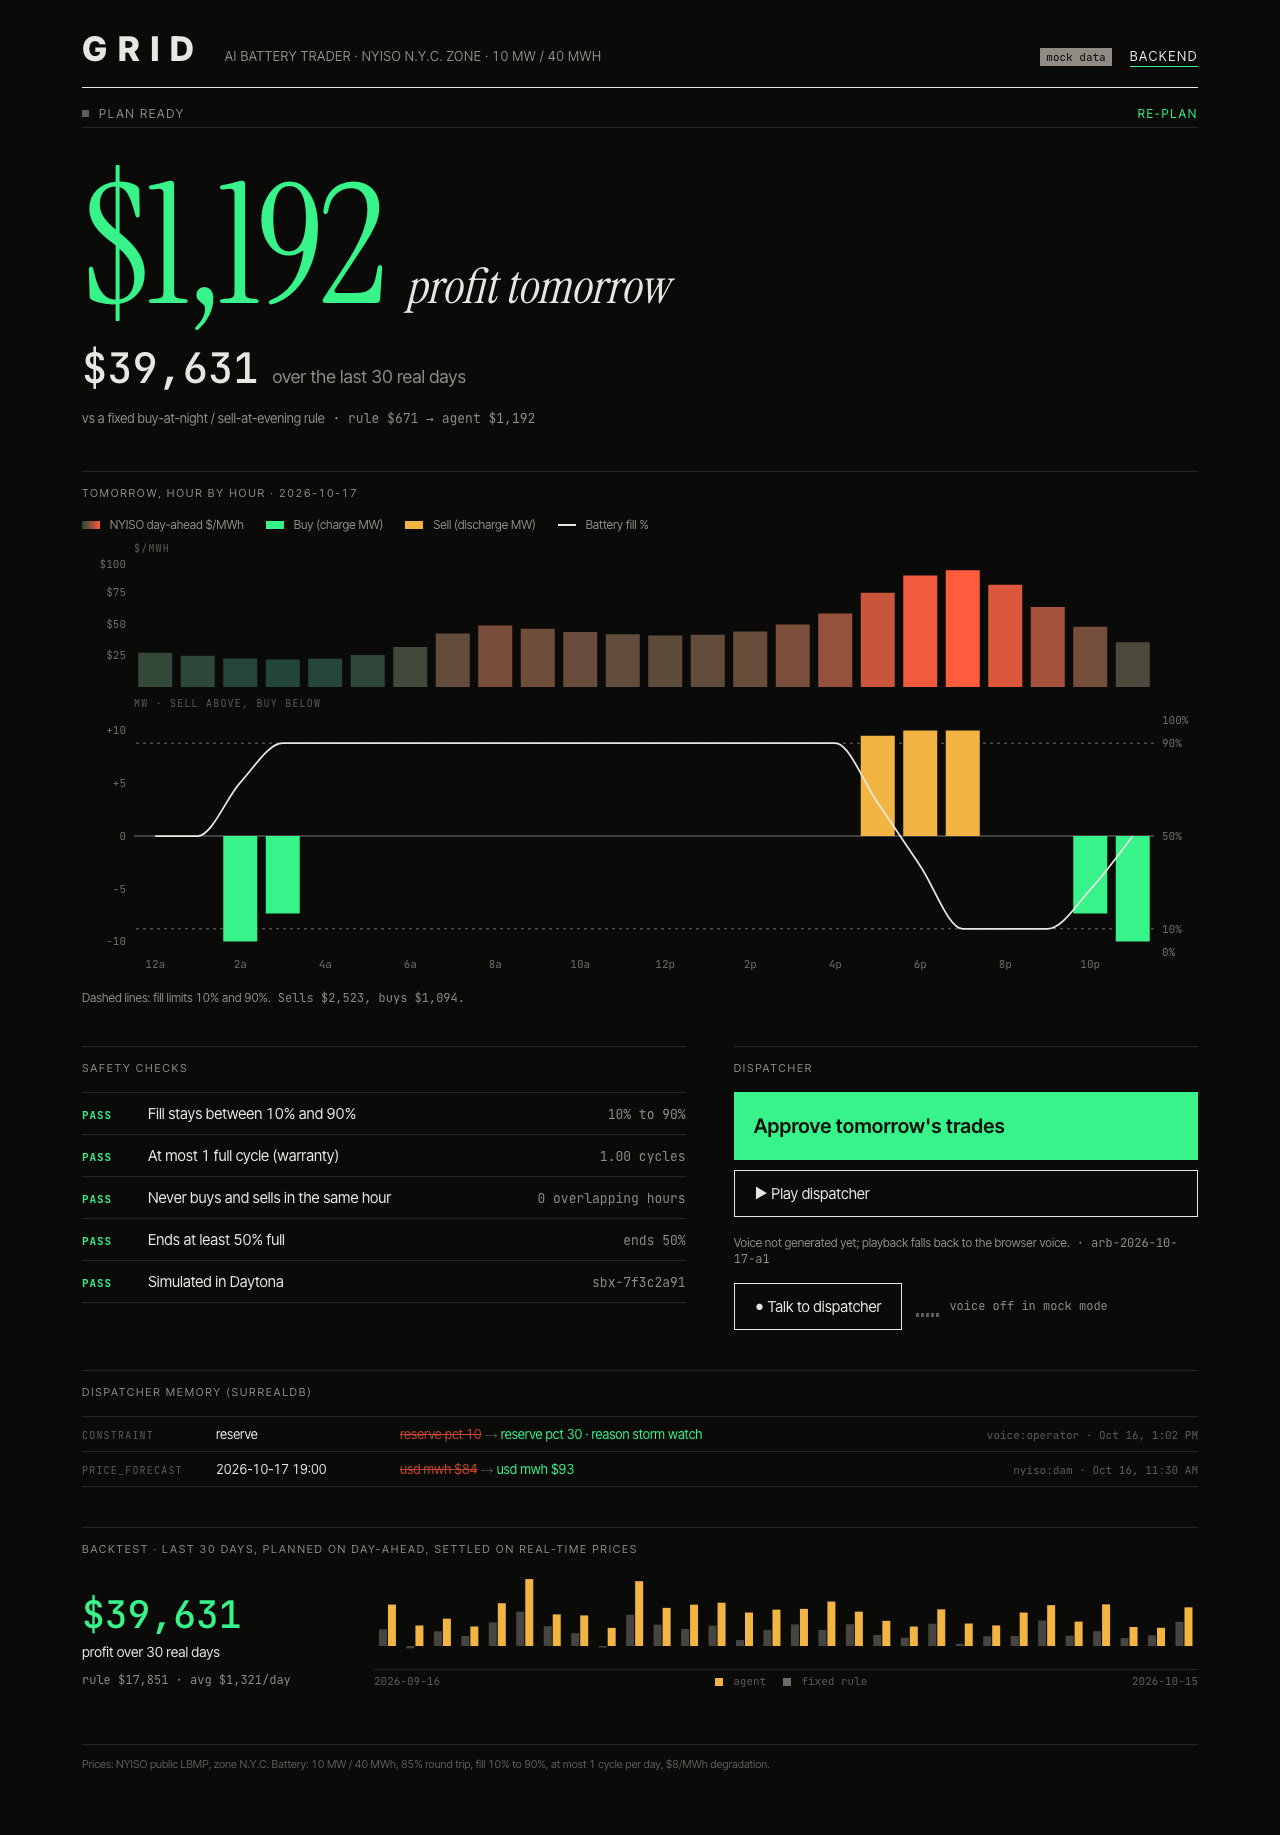
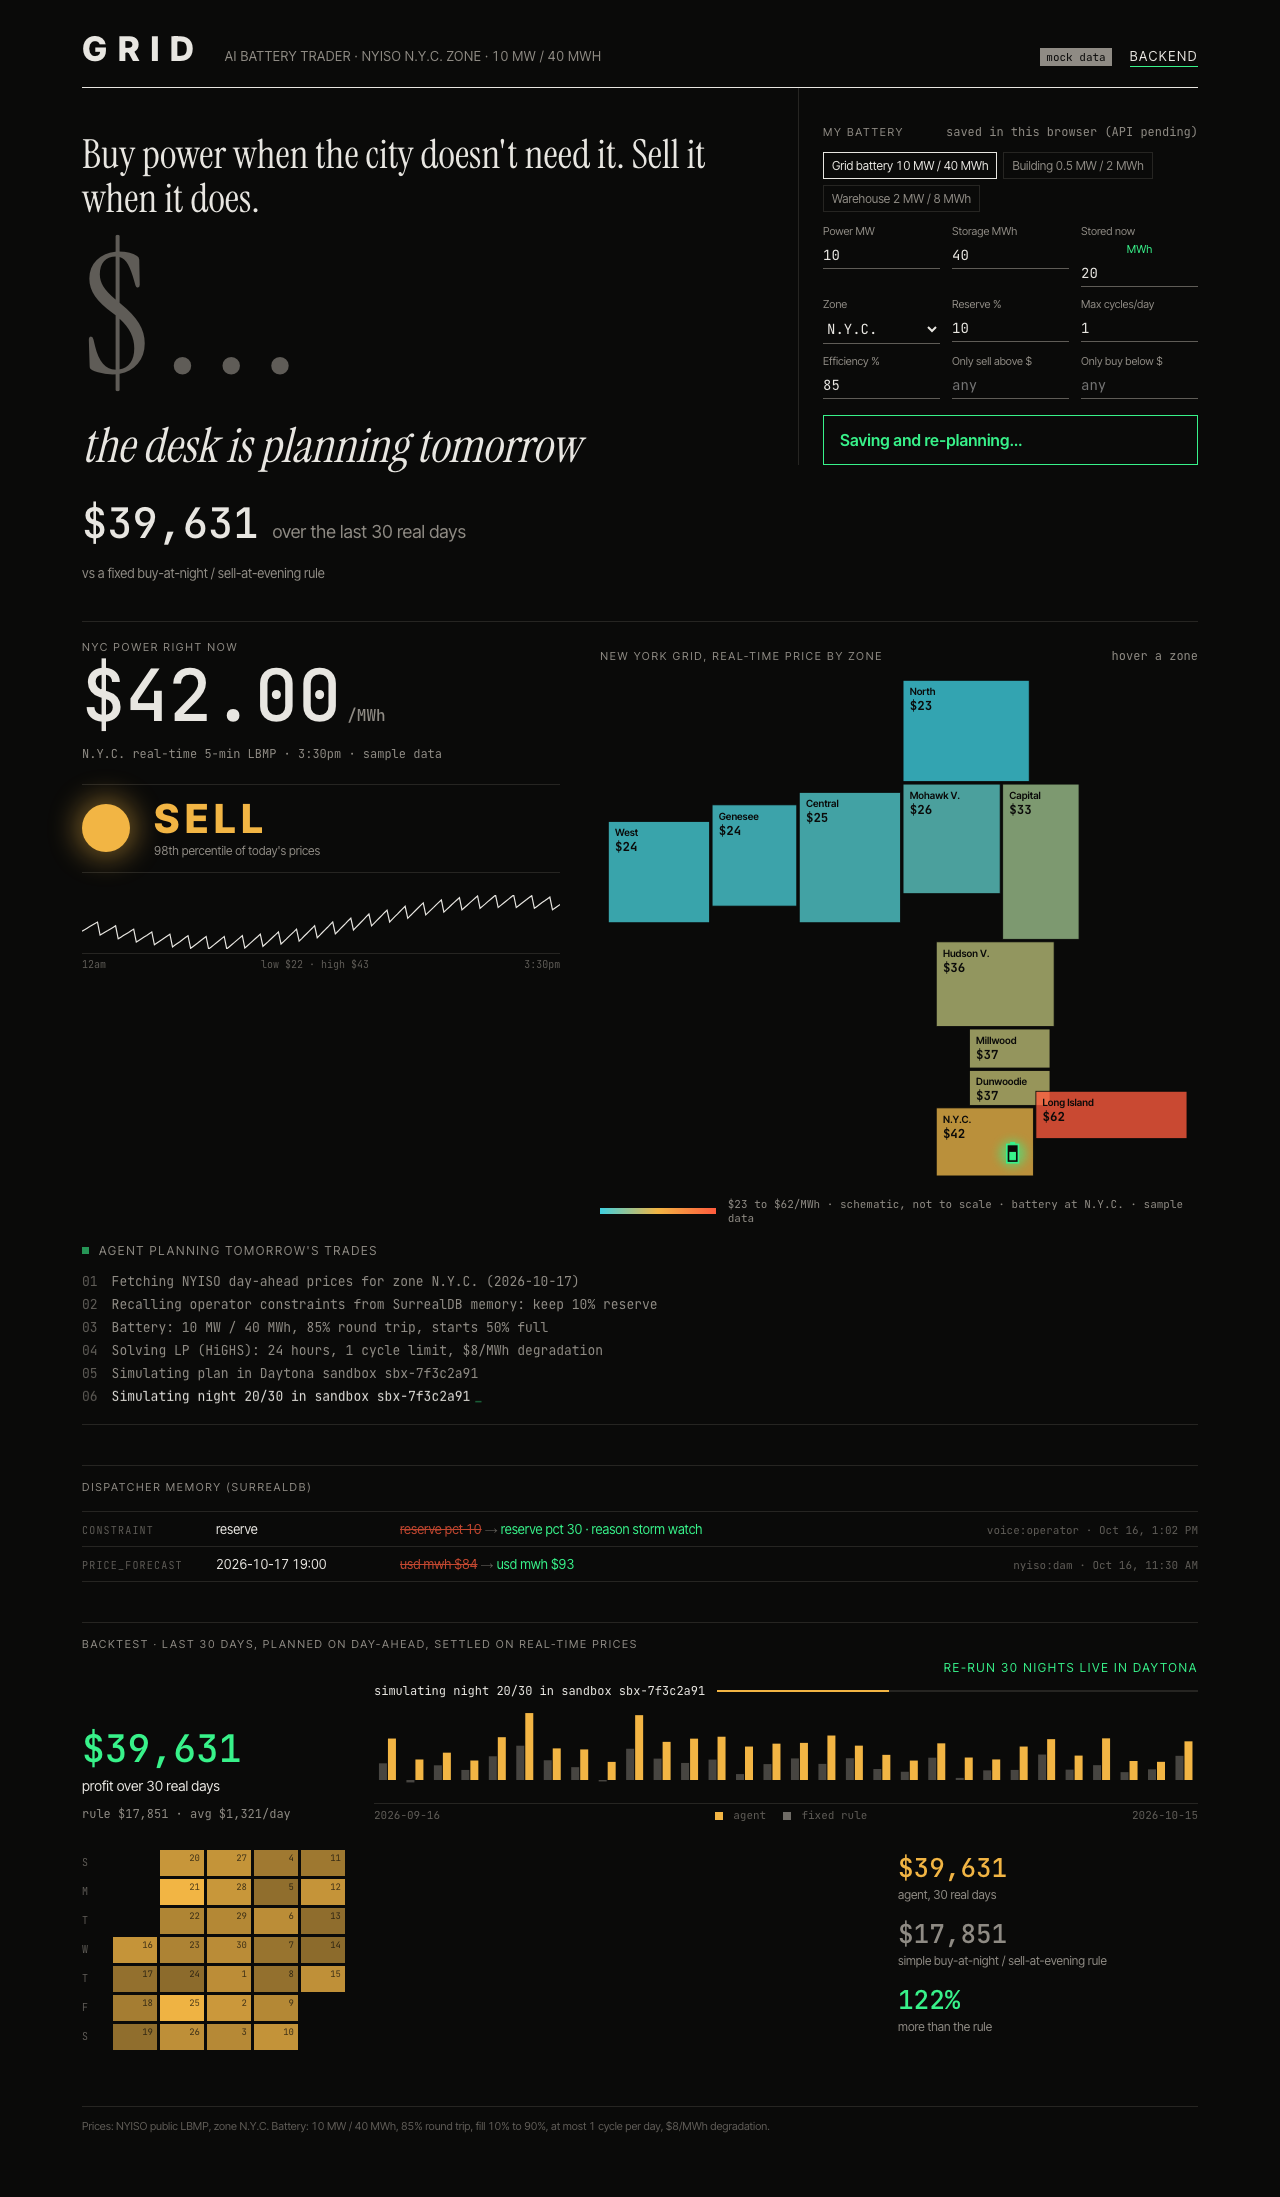
Landing dashboard (live price, zone map, play tomorrow, homes powered, bids, size slider), My battery panel, Anchor session fix, clearing price rules

diff --git a/ui/src/Landing.tsx b/ui/src/Landing.tsx
@@ -237,10 +237,10 @@ export function PlayTomorrow({ plan }: { plan: Plan }) {
           ) : (
             <>
               <span className="homes mono dim">~{fmtInt(peakHomes)}</span>
-              <span>NYC homes at the evening peak{sellHours.length ? `, ${hourLabel(sellHours[0])} to ${hourLabel(sellHours[sellHours.length - 1] + 1)}` : ""}</span>
+              <span>NYC homes at full sell power{sellHours.length ? ` (sells ${sellHours.map((x) => hourLabel(x)).join(", ")})` : ""}</span>
             </>
           )}
-          <span className="mono delivered">{delivered.toFixed(1)} of {totalOut.toFixed(1)} MWh delivered at the peak</span>
+          <span className="mono delivered">{delivered.toFixed(1)} of {totalOut.toFixed(1)} MWh delivered when prices peaked</span>
           <span className="fine">Assumes {HOME_KW} kW average NYC home load.</span>
         </div>
       </div>
@@ -289,7 +289,7 @@ export function ProfitCalendar({ data }: { data: Backtest | null }) {
   const weeks = Math.ceil(cells.length / 7);
   return (
     <section className="cal">
-      <div className="cal-grid" style={{ gridTemplateColumns: `28px repeat(${weeks}, 1fr)` }}>
+      <div className="cal-grid" style={{ gridTemplateColumns: `28px repeat(${weeks}, 44px)` }}>
         {["S", "M", "T", "W", "T", "F", "S"].map((d, r) => (
           <div key={`l${r}`} className="cal-dow mono" style={{ gridColumn: 1, gridRow: r + 1 }}>{d}</div>
         ))}

diff --git a/ui/src/styles.css b/ui/src/styles.css
@@ -246,3 +246,4 @@ nav a:hover { color: var(--green); }
 .bids .r { text-align: right; }
 .bids tr.buy .side { color: var(--green); font-weight: 600; letter-spacing: 0.1em; }
 .bids tr.sell .side { color: #f2b544; font-weight: 600; letter-spacing: 0.1em; }
+.checks li { grid-template-columns: 52px minmax(0, 1fr) minmax(0, 45%); }

diff --git a/grid/api.py b/grid/api.py
@@ -288,7 +288,7 @@ def post_battery(req: BatteryReq):
     unchanged, except sell_above / buy_below which can be cleared with the note 'remove the price rules'."""
     from grid import profile
 
-    upd = {k: v for k, v in req.model_dump().items() if v is not None and k not in ("note", "replace")}
+    upd = {k: v for k, v in req.model_dump(exclude_unset=True).items() if k not in ("note", "replace")}  # explicit null clears a rule
     if req.note:
         upd.update(profile.parse_note(req.note))
     if not upd and not req.replace:

diff --git a/grid/profile.py b/grid/profile.py
@@ -55,7 +55,7 @@ def rules() -> dict:
 def _clean(upd: dict) -> dict:
     out = {}
     for k, v in upd.items():
-        if k not in DEFAULT or k == "name" and not v:
+        if k not in DEFAULT or k == "name" and not v or (v is None and k not in NUMERIC):
             continue
         if k in NUMERIC:
             out[k] = None if v in (None, "", "none") else float(v)
